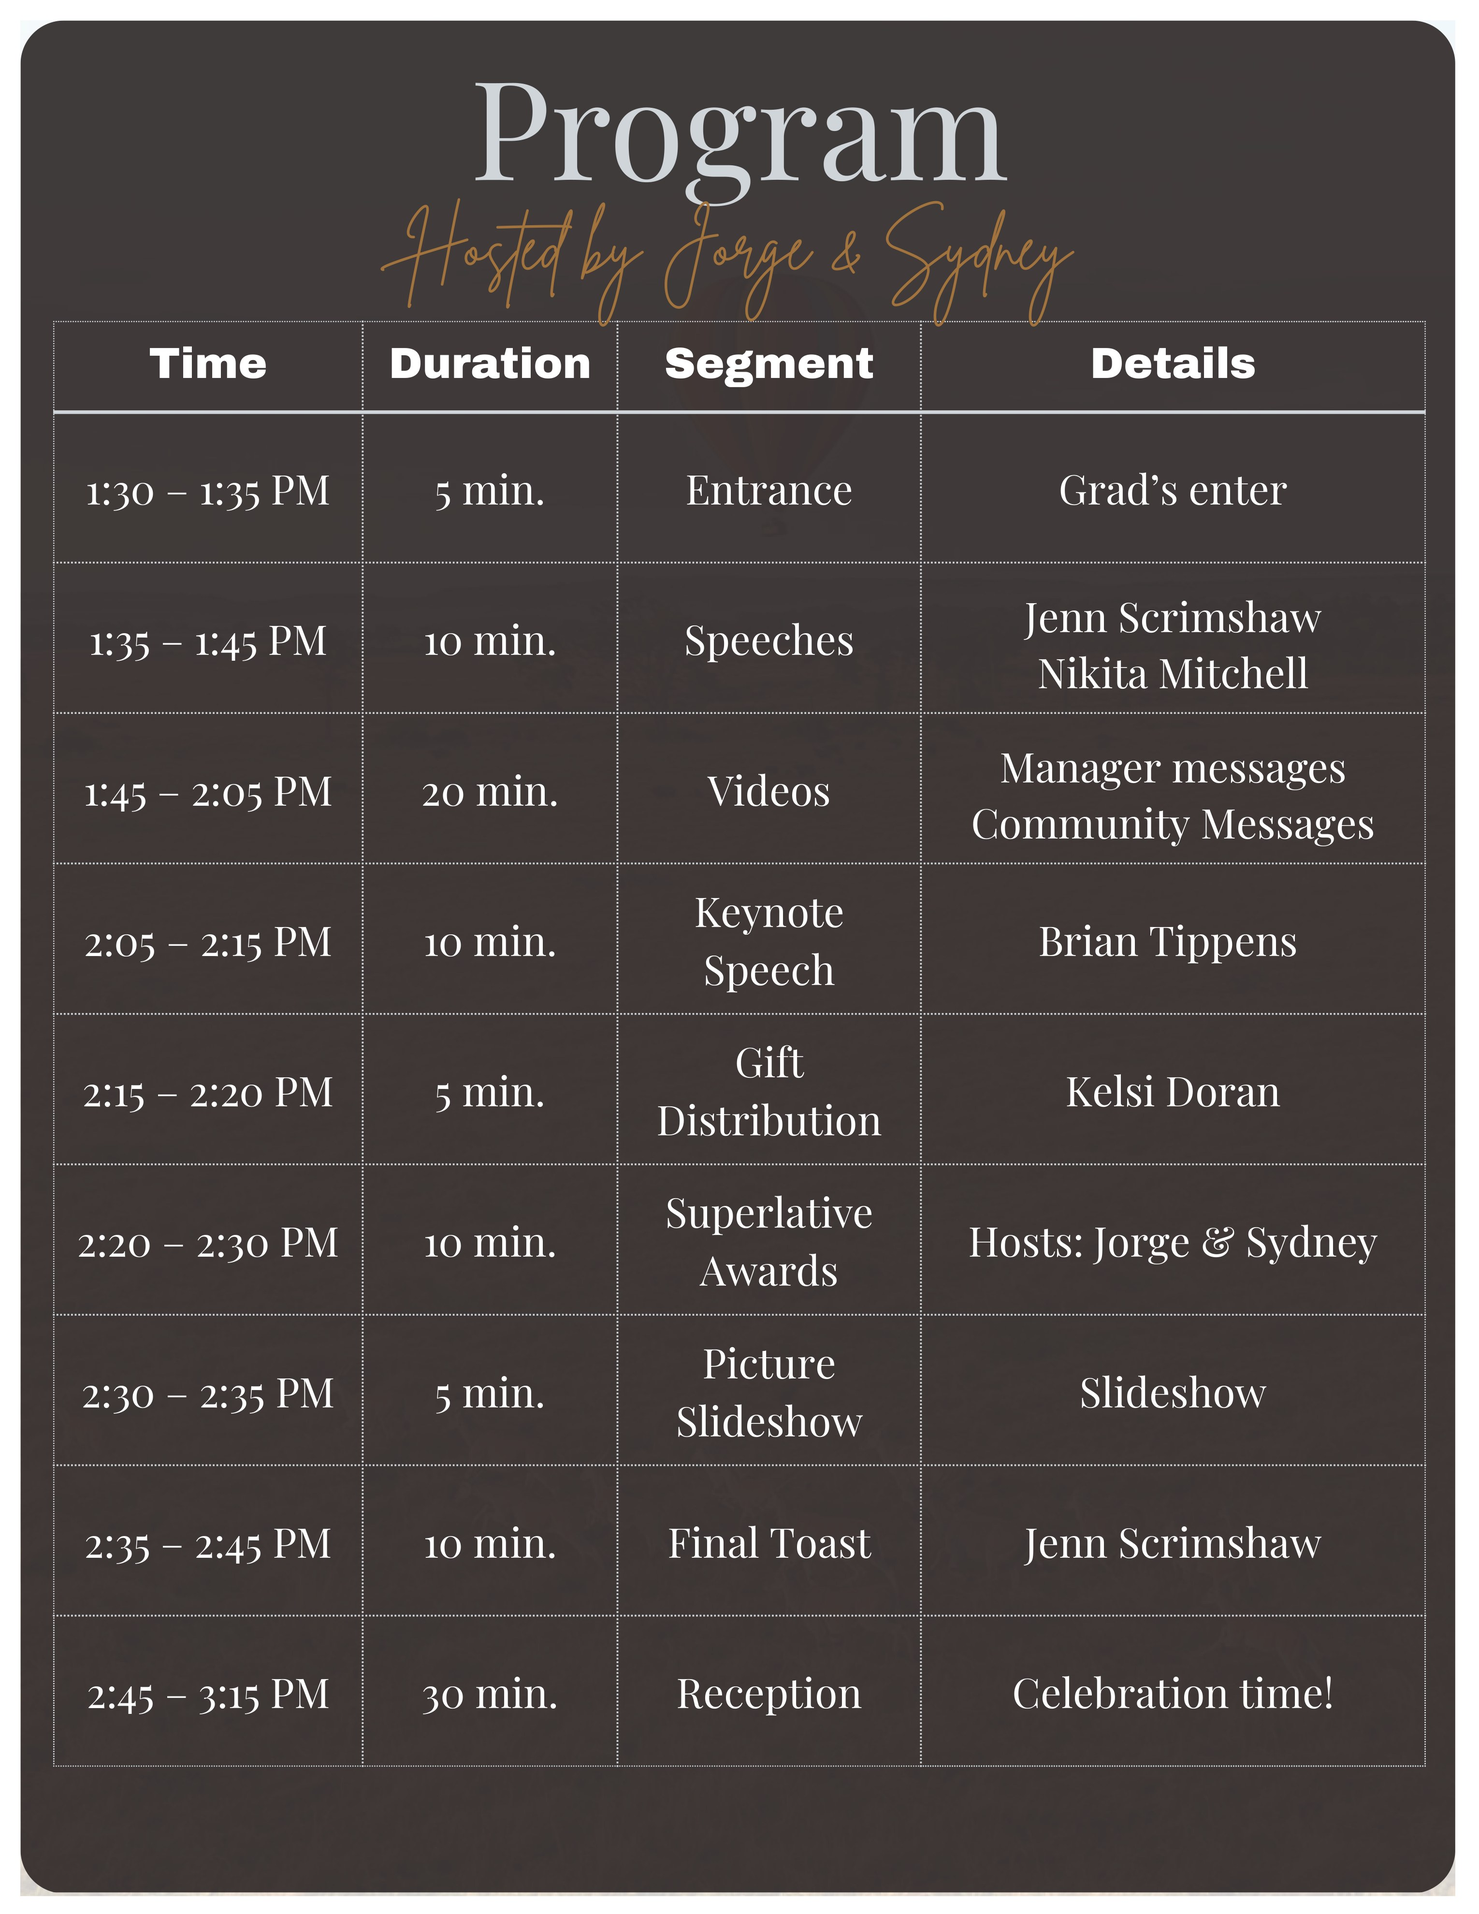
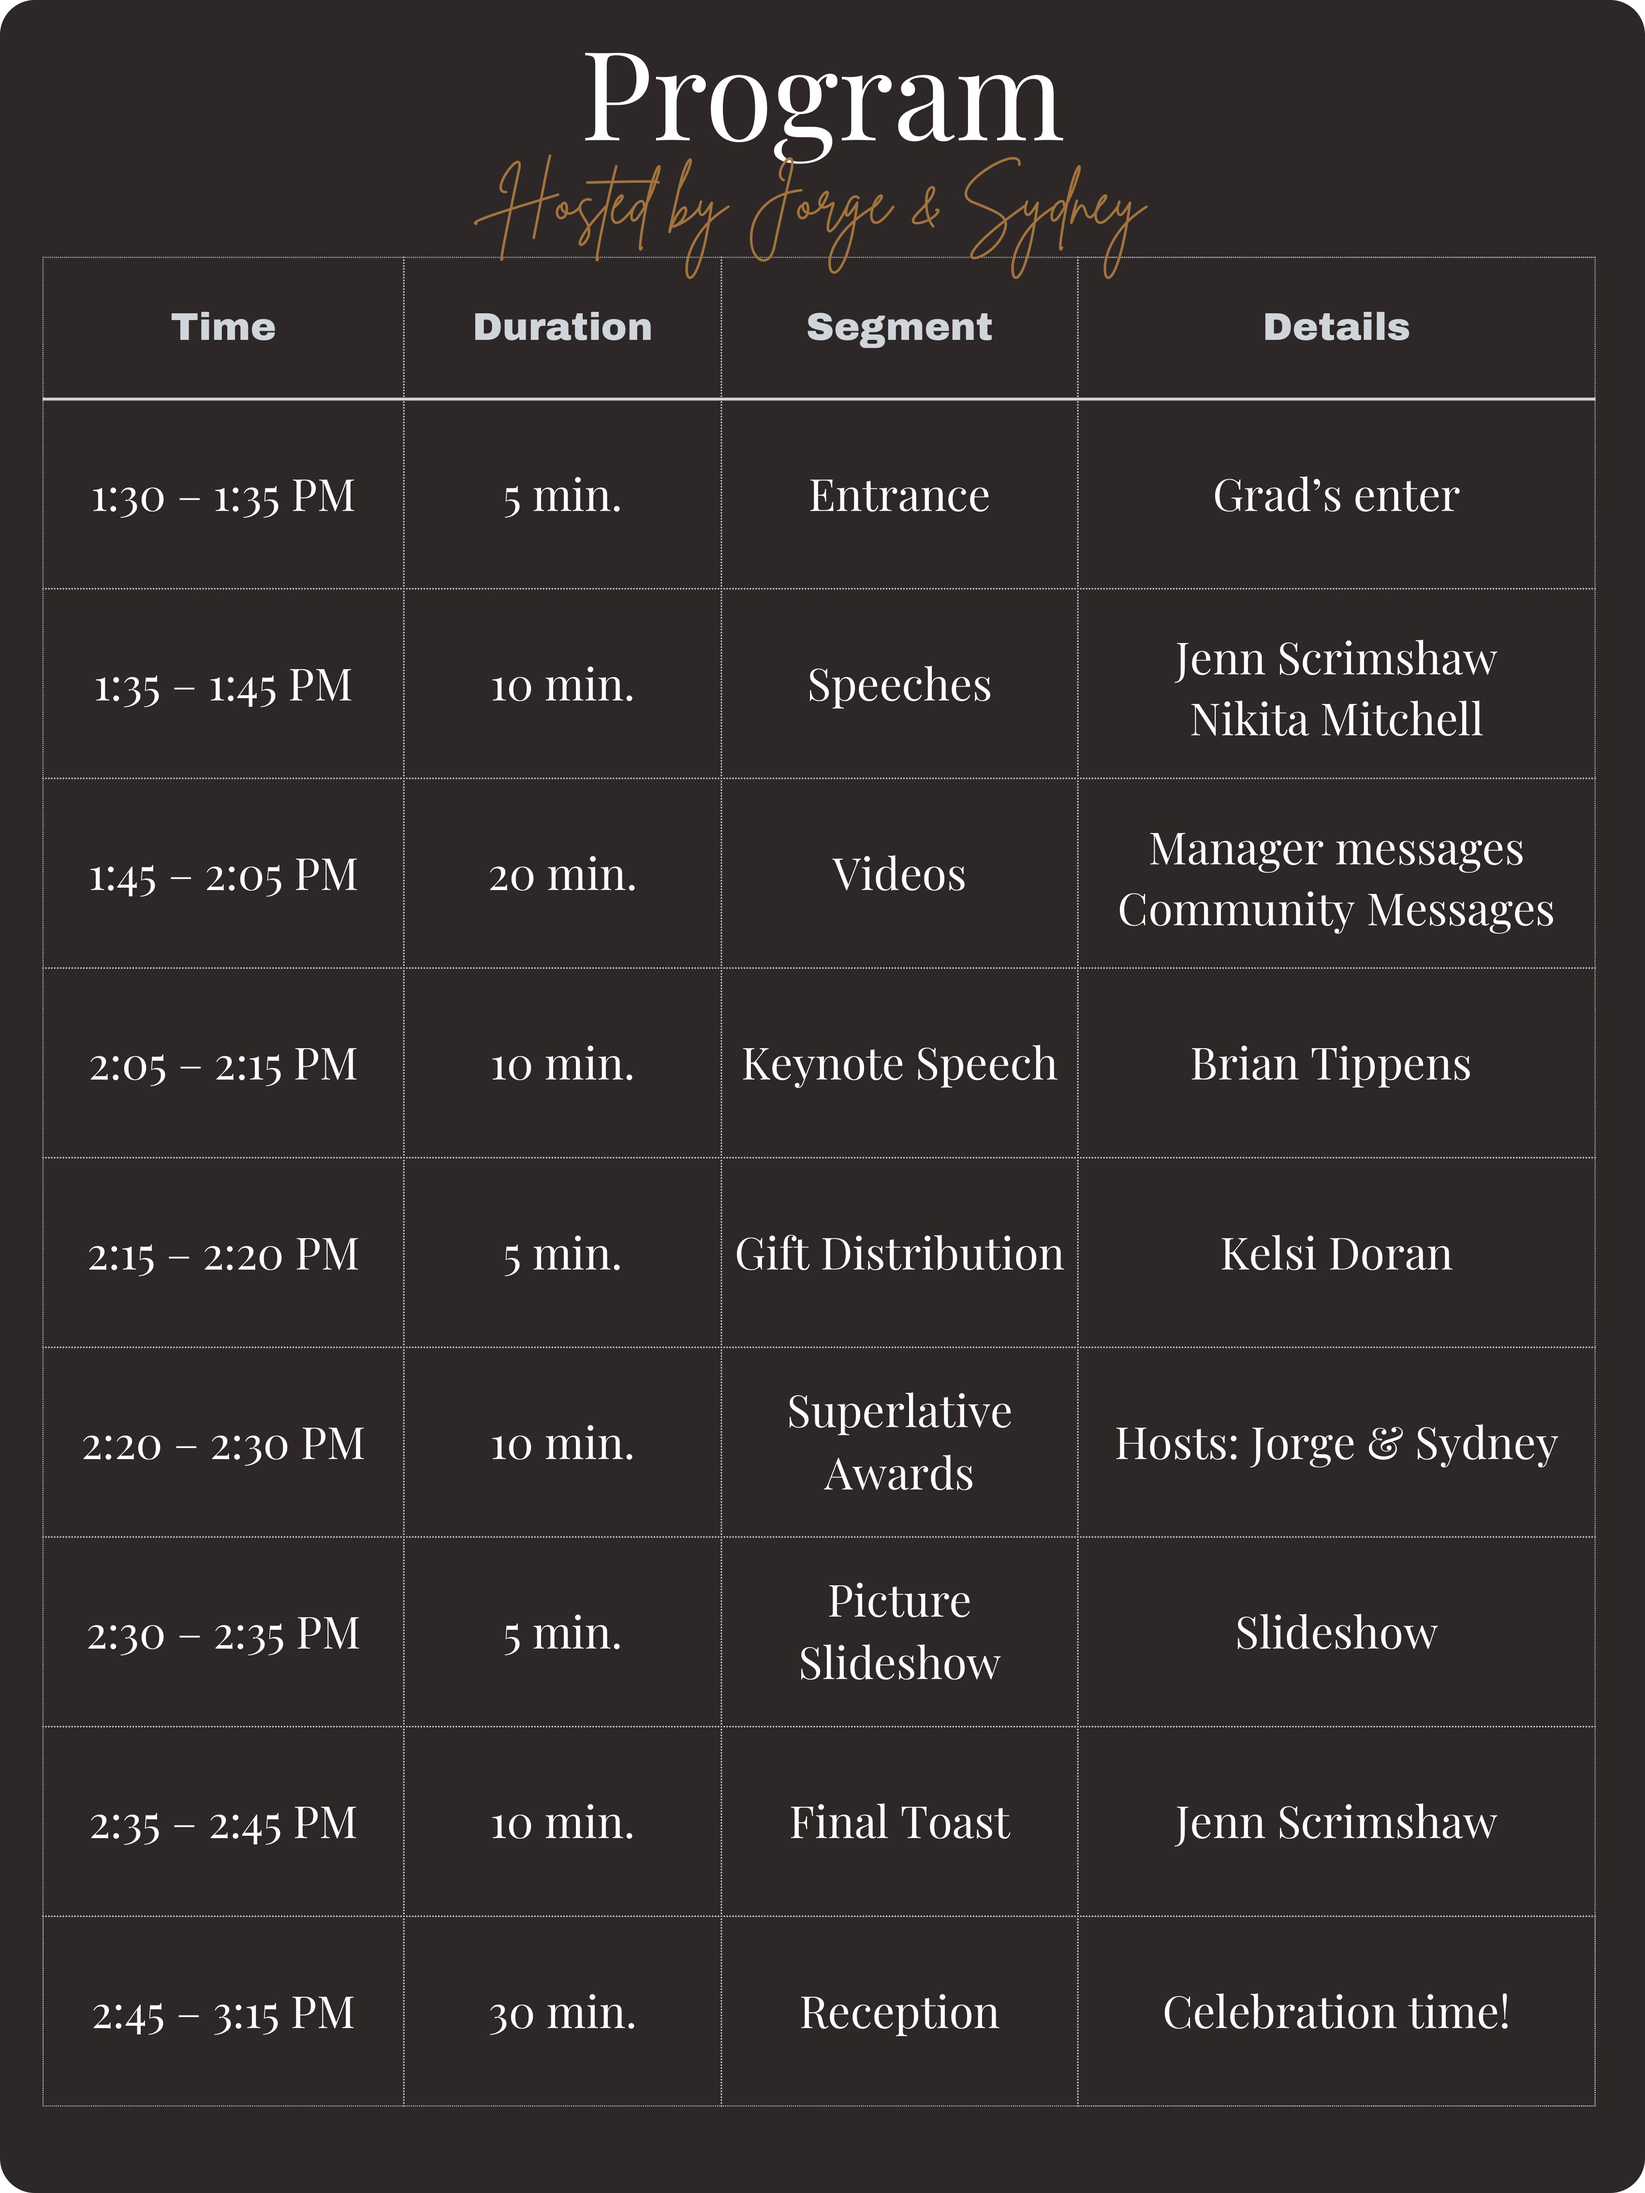
Update flip book with FLEX GRADUATION PROGRAM.pdf
New full-bleed design (background photo extends to page edges, no black
border) with a 0.75 page aspect ratio (was 0.7727). Pages have real
vector text, so rendered directly from the PDF at high resolution;
updated PAGE_ASPECT and bumped cache versions to match.

diff --git a/assets/js/app.js b/assets/js/app.js
@@ -1,6 +1,6 @@
 (function () {
-  var PAGE_ASPECT = 1836 / 2376; // width / height of the source pages
-  var ASSET_VERSION = 7; // bump whenever page images are replaced, to bust browser cache
+  var PAGE_ASPECT = 850.5 / 1134; // width / height of the source pages
+  var ASSET_VERSION = 8; // bump whenever page images are replaced, to bust browser cache
   var IMAGES = [
     'assets/pages/cover.jpg?v=' + ASSET_VERSION,
     'assets/pages/program.jpg?v=' + ASSET_VERSION,

diff --git a/index.html b/index.html
@@ -28,6 +28,6 @@
   </main>
 
   <script src="assets/vendor/page-flip.browser.js"></script>
-  <script src="assets/js/app.js?v=6"></script>
+  <script src="assets/js/app.js?v=7"></script>
 </body>
 </html>
